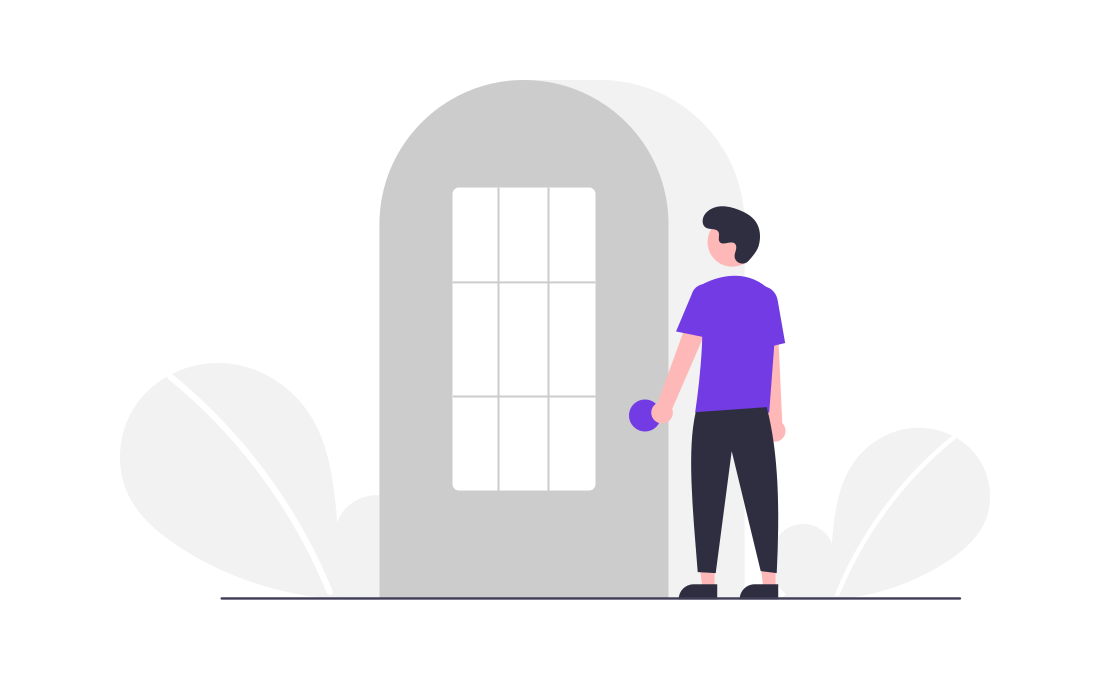
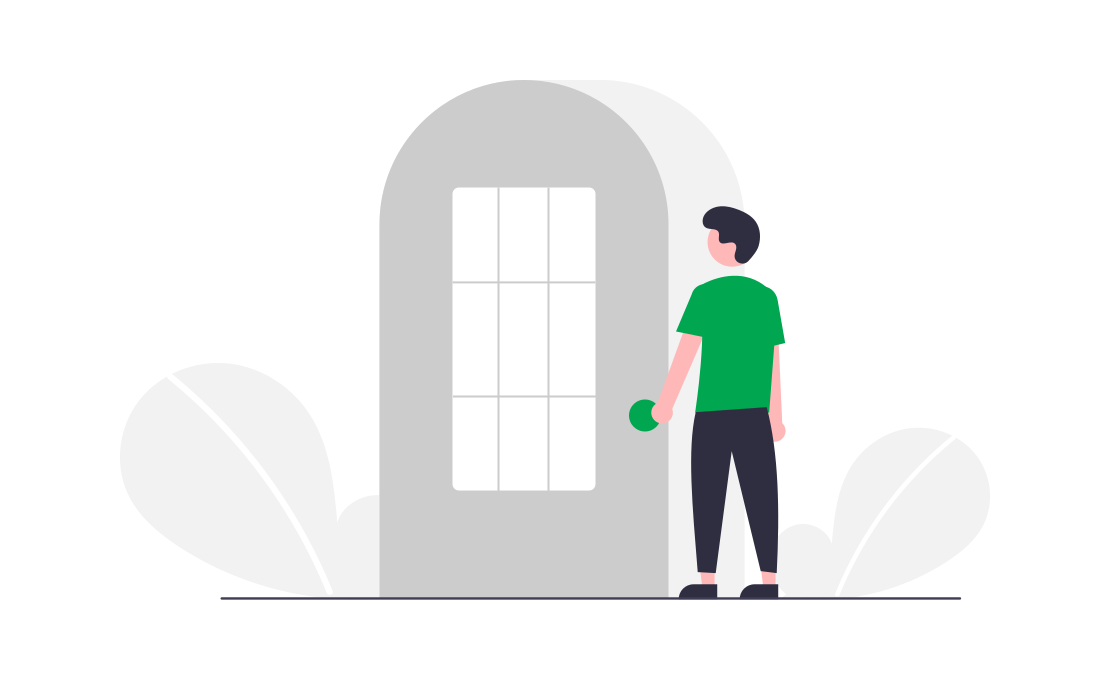
edit color schema and images

Changed region(s): [[0.5514, 0.4015, 0.7045, 0.6485]]

diff --git a/public/css/style.css b/public/css/style.css
@@ -66,8 +66,8 @@ a:hover {
     top: 0;
     left: 0;
     color: white;
-    -webkit-box-shadow: 6px 1px 32px 4px #9B72EC;
-    box-shadow: -10px 86px 20px 12px #9B72EC;
+    -webkit-box-shadow: 6px 1px 32px 4px #00F275;
+    box-shadow: -10px 86px 20px 12px #00F275;
 }
 .logout-btn
 {
@@ -112,7 +112,7 @@ a:hover {
 }
 
 .Side-Ul li:hover {
-    background-color: #9B72EC;
+    background-color: #00F275;
     transition: 500ms;
 }
 
@@ -166,7 +166,7 @@ a:hover {
 }
 
 .active {
-    background-color: #9B72EC;
+    background-color: #00F275;
 }
 
 /*Profile*/
@@ -294,7 +294,7 @@ a:hover {
 }
 
 .Login .form-control:focus {
-    border-color: #7952b3;
+    border-color: #00C15D;
     box-shadow: 0 0 0 3px rgba(121, 82, 179, .25);
 }
 
@@ -350,7 +350,7 @@ a:hover {
     .Register-Img, .Login-Img {
         border-radius: 100%;
         height: 350px !important;
-        border: solid 3px #7952b3;
+        border: solid 3px #00C15D;
         width: 350px !important;
         margin: 0px auto;
     }
@@ -402,7 +402,7 @@ a:hover {
     resize: none;
     border: none;
     outline: none;
-    border-bottom: 3px solid #7952b3 ;
+    border-bottom: 3px solid #00C15D ;
 
 }
 .content textarea:focus
@@ -416,7 +416,7 @@ a:hover {
 .content .form-control:focus
 {
     box-shadow: none;
-    border-bottom: 3px solid #7952b3 ;
+    border-bottom: 3px solid #00C15D ;
 }
 /*.Chat-Box .overlay*/
 /*{*/
@@ -470,7 +470,7 @@ a:hover {
 }
 .Team-btn
 {
-    background-color: #7952b3;
+    background-color: #00C15D;
     color: white;
 }
 .Team-btn:focus
@@ -494,7 +494,7 @@ a:hover {
 }
 .New-Member .form-control
 {
-    border-color: #7952b3;
+    border-color: #00C15D;
     box-shadow: 0 0 0 3px rgba(121, 82, 179, .25);
 
 }
